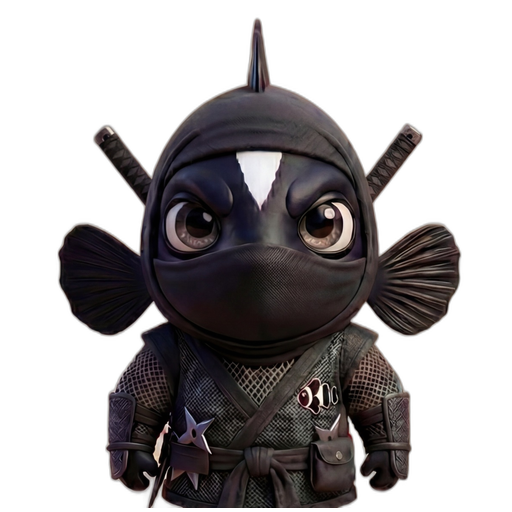
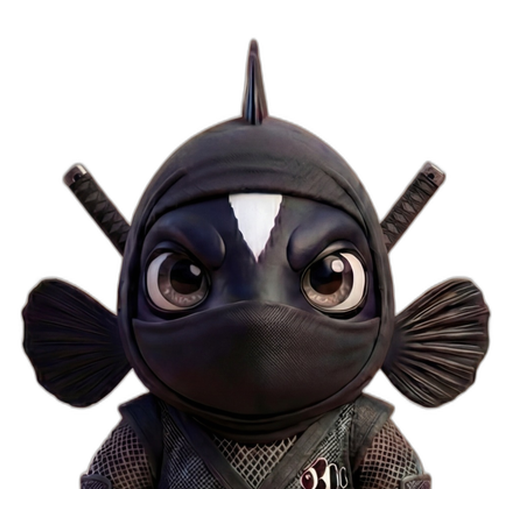
Tighten lightbomb character busts

diff --git a/src/App.tsx b/src/App.tsx
@@ -391,9 +391,9 @@ const assets = {
   princeIcon: assetUrl('/assets/mobile/icons/prince-clownfish-circle-v01.png?v=20260529'),
   lightBombHeads: {
     prince: assetUrl('/assets/mobile/lightbomb/prince-head-v01.png?v=20260601'),
-    panther: assetUrl('/assets/mobile/lightbomb/black-panther-ninja-upper-v01.png?v=20260601b'),
-    doubleBand: assetUrl('/assets/mobile/lightbomb/double-band-clown-upper-v01.png?v=20260601b'),
-    panda: assetUrl('/assets/mobile/lightbomb/panda-sumo-upper-v01.png?v=20260601b'),
+    panther: assetUrl('/assets/mobile/lightbomb/black-panther-ninja-upper-v01.png?v=20260601c'),
+    doubleBand: assetUrl('/assets/mobile/lightbomb/double-band-clown-upper-v01.png?v=20260601c'),
+    panda: assetUrl('/assets/mobile/lightbomb/panda-sumo-upper-v01.png?v=20260601c'),
     squid: assetUrl('/assets/mobile/lightbomb/squid-head-v01.png?v=20260601'),
     urchin: assetUrl('/assets/mobile/lightbomb/urchin-head-v01.png?v=20260601'),
     anemone: assetUrl('/assets/mobile/lightbomb/anemone-head-v01.png?v=20260601'),
